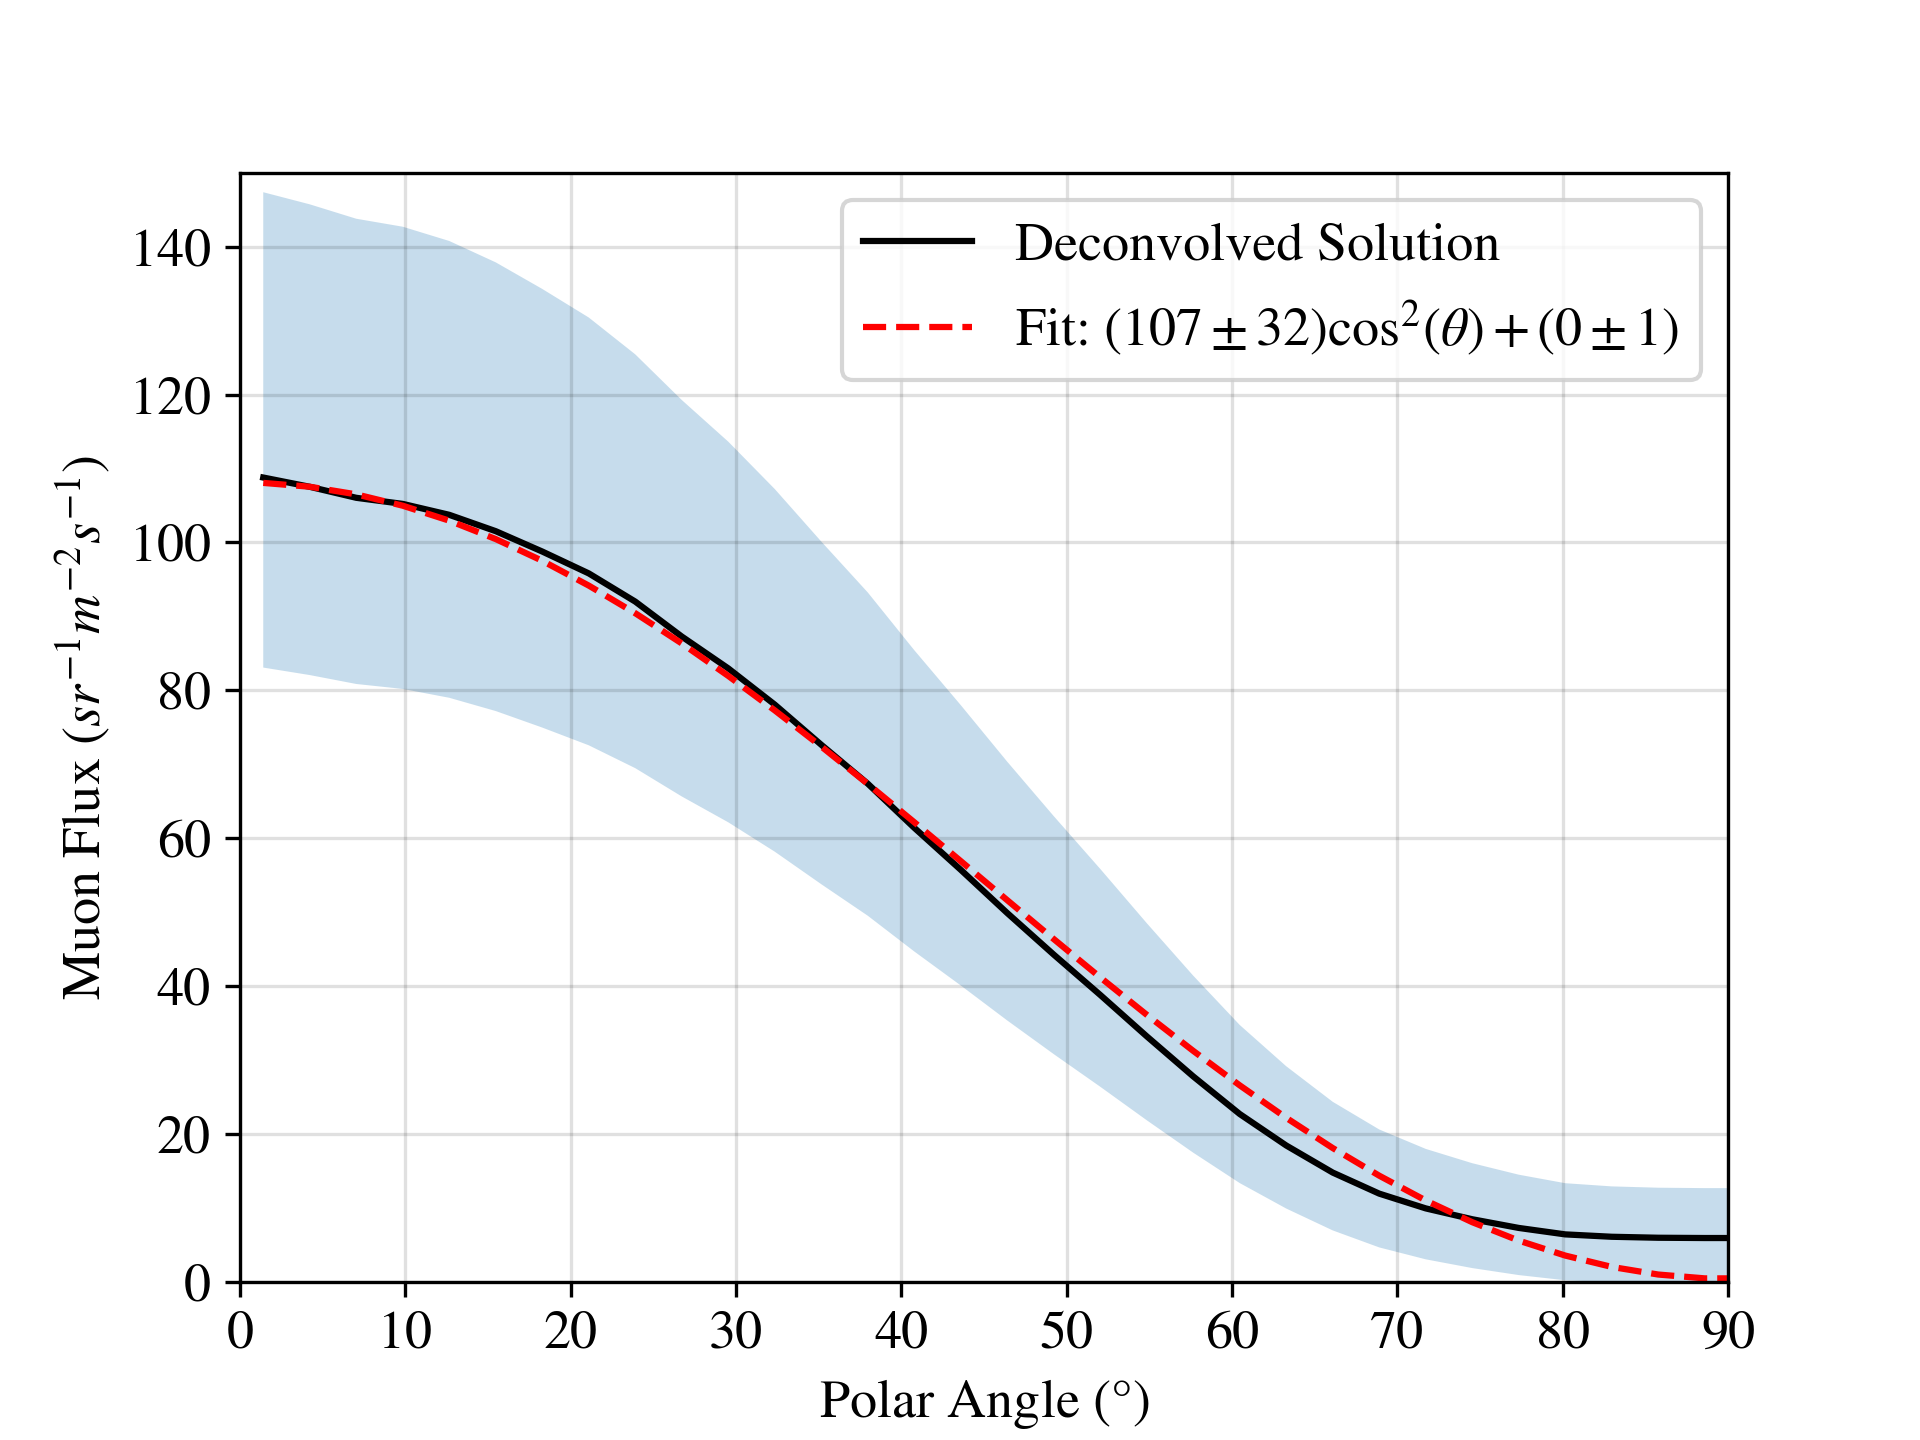
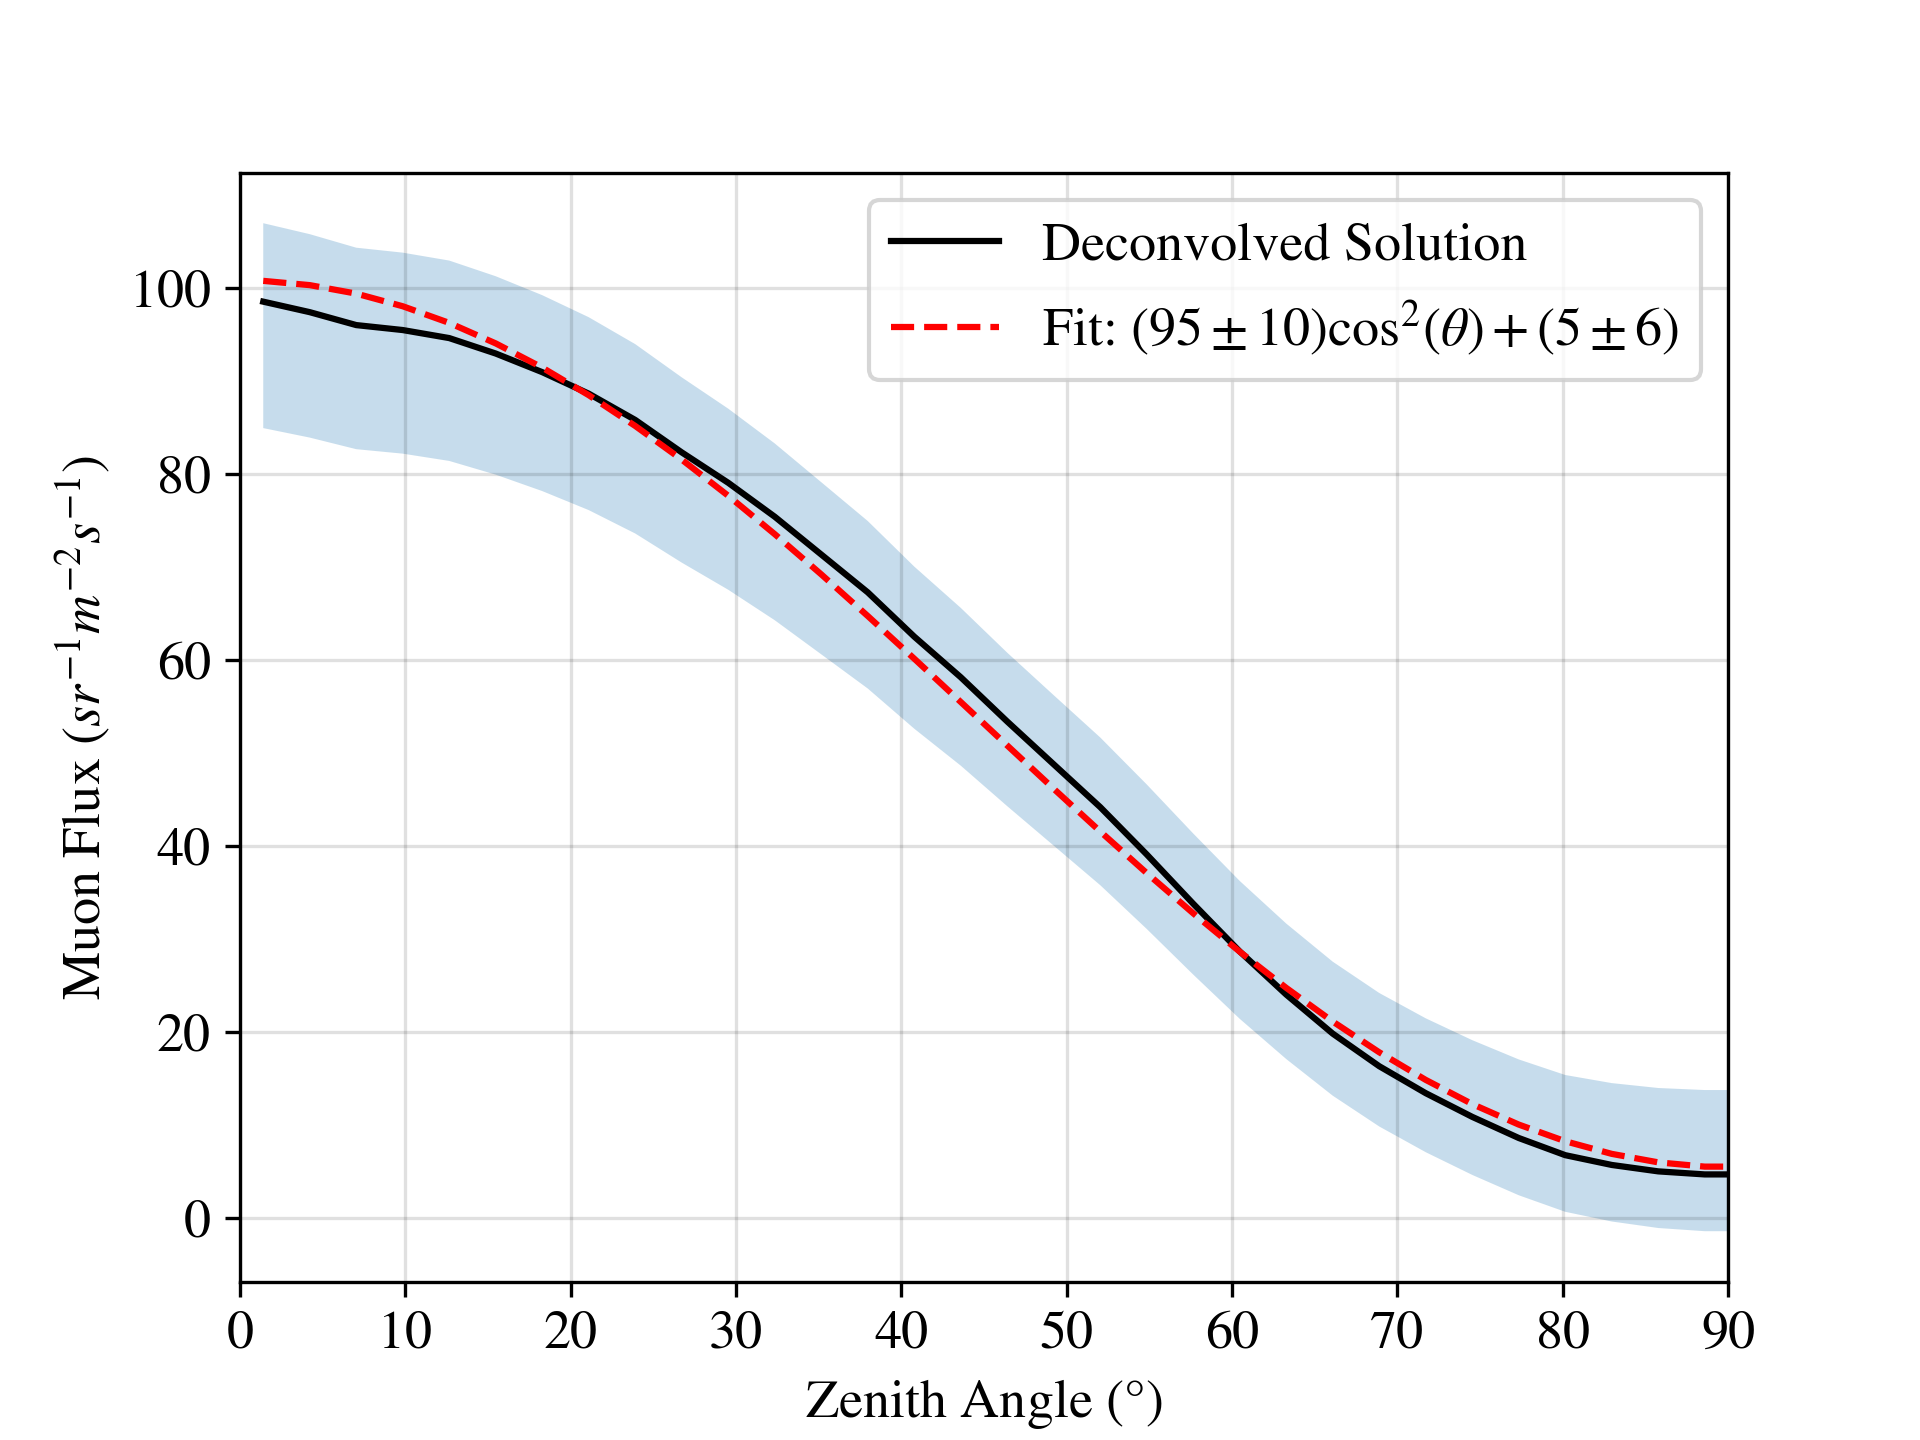
switched to curvature regularization

diff --git a/MCAnalyzer.py b/MCAnalyzer.py
@@ -84,7 +84,7 @@ for rate, dtheta, a0 in zip(measurements, angles, angles0):
     bc.append(bin_centers)
     ai.append(avg_areas)
 plt.xlim(0, 90)
-plt.xlabel("Polar Viewing Angle [°]")
+plt.xlabel("Zenith Viewing Angle [°]")
 plt.ylabel(r"Average Projected Area [$m^2$]")
 plt.legend()
 plt.grid(alpha=0.12, color="black")
@@ -100,8 +100,8 @@ def combine_with_weights(w):
 
 def inner_product(A, B):
     total = 0.0
-    dSolidAngle = np.sin(bin_centers)*(histo_bins[1]-histo_bins[0])*2.0*np.pi
-    return np.sum(dSolidAngle*A*B)*eta**2 / 4.0
+    dSolidAngle = np.sin(bin_centers)*(histo_bins[1]-histo_bins[0])
+    return np.sum(dSolidAngle*A*B)*eta**2*4.0
 
 print(inner_product(np.ones_like(bin_centers), np.ones_like(bin_centers)))
 
@@ -142,14 +142,14 @@ ylow = np.array(ylow)
 yhigh = np.array(yhigh)
 #for j in range(0, len(ai)):
 #        plt.plot(bin_centers, measurements[j]*ai[j]/(eta**2 / NOMINAL_AREA))
-plt.xlabel("Polar Angle (°)")
+plt.xlabel("Zenith Angle (°)")
 plt.grid(alpha=0.12, color="black")
 plt.fill_between(bin_centers*180.0/np.pi, ylow, yhigh, alpha=0.3)
 plt.plot(bin_centers*180.0/np.pi, all_yvals, color="black", label="Weighted Average Reconstruction")
 plt.plot(bin_centers*180.0/np.pi, func(bin_centers, *popt), color="red", linestyle="dashed", label=r"Curve Fit: $" + str(popt[0]) + r"\cos^2(\theta) + " + str(popt[1]) + r"12$")
 plt.legend()
 
-plt.ylabel(r"Muon Flux [$s^{-1}m^{-2}sr^{-2}$]")
+plt.ylabel(r"Muon Flux [$s^{-1}m^{-2}sr^{-1}$]")
 plt.xlim(0, 90.0)
 #plt.ylim(0, 120)
 plt.savefig("teleplot.png",dpi=300)
@@ -164,19 +164,31 @@ import scipy
 def get_total_badness(weights, alpha):
     combined = combine_with_weights(weights)
     my_sum = 0.0
+    my_cum = 0.0
     for (meas, area_i) in zip(measurements, ai):
         P = inner_product(combined, area_i)/eta**2
         my_sum += (P - meas)**2
-    return (my_sum + np.sum(np.array(weights)**2)*alpha)
+        my_cum += 100.0*len(combined[combined < 0])
+    #return (my_sum + np.sum(np.array(weights)**2)*alpha)
+    return my_sum + np.sum(np.diff(np.diff(combined))**2)*alpha + my_cum*alpha
+
 
 alpha = 6.5e-5
 alpha_low = 4e-5
 alpha_high = 9e-5
+
+alpha =  0.8
+alpha_low = 0.5
+alpha_high = 1.9
+
 consts = scipy.optimize.minimize(get_total_badness, np.array([1, 0, 0, 0, 0]), args=(alpha), method='Powell')
 consts_low = scipy.optimize.minimize(get_total_badness, np.array([1, 0, 0, 0, 0]), args=(alpha_low), method='Powell')
 consts_high = scipy.optimize.minimize(get_total_badness, np.array([1, 0, 0, 0, 0]), args=(alpha_high), method='Powell')
+
+consts_low.x *= (1.0 - 1.0/(9.0))
+consts_high.x *= (1.0 + (1.0/9.0))
 plt.grid(alpha=0.12, color="black")
-plt.fill_between(bin_centers*180.0/np.pi, combine_with_weights(consts_low.x) + 5, combine_with_weights(consts_high.x) - 5, alpha=0.25)
+plt.fill_between(bin_centers*180.0/np.pi, combine_with_weights(consts_low.x) - 4, combine_with_weights(consts_high.x) + 4, alpha=0.25)
 
 popt, pcov = curve_fit(func, bin_centers, combine_with_weights(consts.x), p0=[84, 13])
 print(popt)
@@ -184,7 +196,12 @@ print(pcov[0][0]**0.5)
 print(pcov[1][1]**0.5)
 
 plt.plot(bin_centers*180.0/np.pi, combine_with_weights(consts.x), label="Deconvolved Solution", color="black")
-plt.plot(bin_centers*180.0/np.pi, func(bin_centers, *popt), label=r"Fit: $(107\pm 32) \cos^2(\theta) + (0\pm 1)$", linestyle="dashed", color="red")
+plt.plot(bin_centers*180.0/np.pi, func(bin_centers, *popt), label=r"Fit: $(95\pm 10) \cos^2(\theta) + (5\pm 6)$", linestyle="dashed", color="red")
+
+print("AAAAAAAAAA")
+print(combine_with_weights(consts.x))
+print(func(bin_centers, *popt))
+print()
 
 iii = 0
 for (a, ww) in zip(ai, consts.x):
@@ -193,9 +210,9 @@ for (a, ww) in zip(ai, consts.x):
     #else:
         #plt.plot(bin_centers, a*ww, color="green", linestyle="dotted")
     iii += 1
-plt.xlabel(r"Polar Angle ($\degree$)")
+plt.xlabel(r"Zenith Angle ($\degree$)")
 plt.xlim(0, 90.0)
-plt.ylim(0, 150.0)
+#plt.ylim(0, 150.0)
 plt.ylabel(r"Muon Flux $(sr^{-1}m^{-2}s^{-1})$")
 plt.legend()
 plt.savefig("good_unfold.png", dpi=300)
@@ -204,20 +221,31 @@ plt.show()
 print(inner_product(ai[0], ai[0]))
 print(consts.x)
 
-
+from scipy.signal import savgol_filter
 L_CURVE_SCAN = False
 if L_CURVE_SCAN:
     L_curve_y = []
     L_curve_x = []
-    for x in np.arange(-10, 1, 0.05):
+    v0_y = []
+    for x in np.arange(-10, 5, 0.05):
         expval = 10**x
         L_curve_x.append(expval)
         consts = scipy.optimize.minimize(get_total_badness, np.array([0, 0, 0, 0, 0]), args=(expval), method='Powell')
         new_weights = consts.x
         L_curve_y.append(np.log(get_total_badness(new_weights, 0.0)))
+        v0_y.append(combine_with_weights(new_weights)[0])
+    L_curve_y = np.array(L_curve_y)
+    L_curve_y[1:-1] = (L_curve_y[2:] + L_curve_y[1:-1] + L_curve_y[:-2])/3.0
+    L_curve_y[1:-1] = (L_curve_y[2:] + L_curve_y[1:-1] + L_curve_y[:-2])/3.0
+    L_curve_y[1:-1] = (L_curve_y[2:] + L_curve_y[1:-1] + L_curve_y[:-2])/3.0
     plt.plot(L_curve_x[1:-1], np.diff(np.diff(L_curve_y)))
     plt.xscale('log')
-    
+    plt.show()
+    plt.plot(L_curve_x, L_curve_y)
+    plt.xscale('log')
+    plt.show()
+    plt.plot(L_curve_x, v0_y)
+    plt.xscale('log')
     plt.show()
 
 plt.savefig("maybe_not_failed_unfolding.png", dpi=300)
